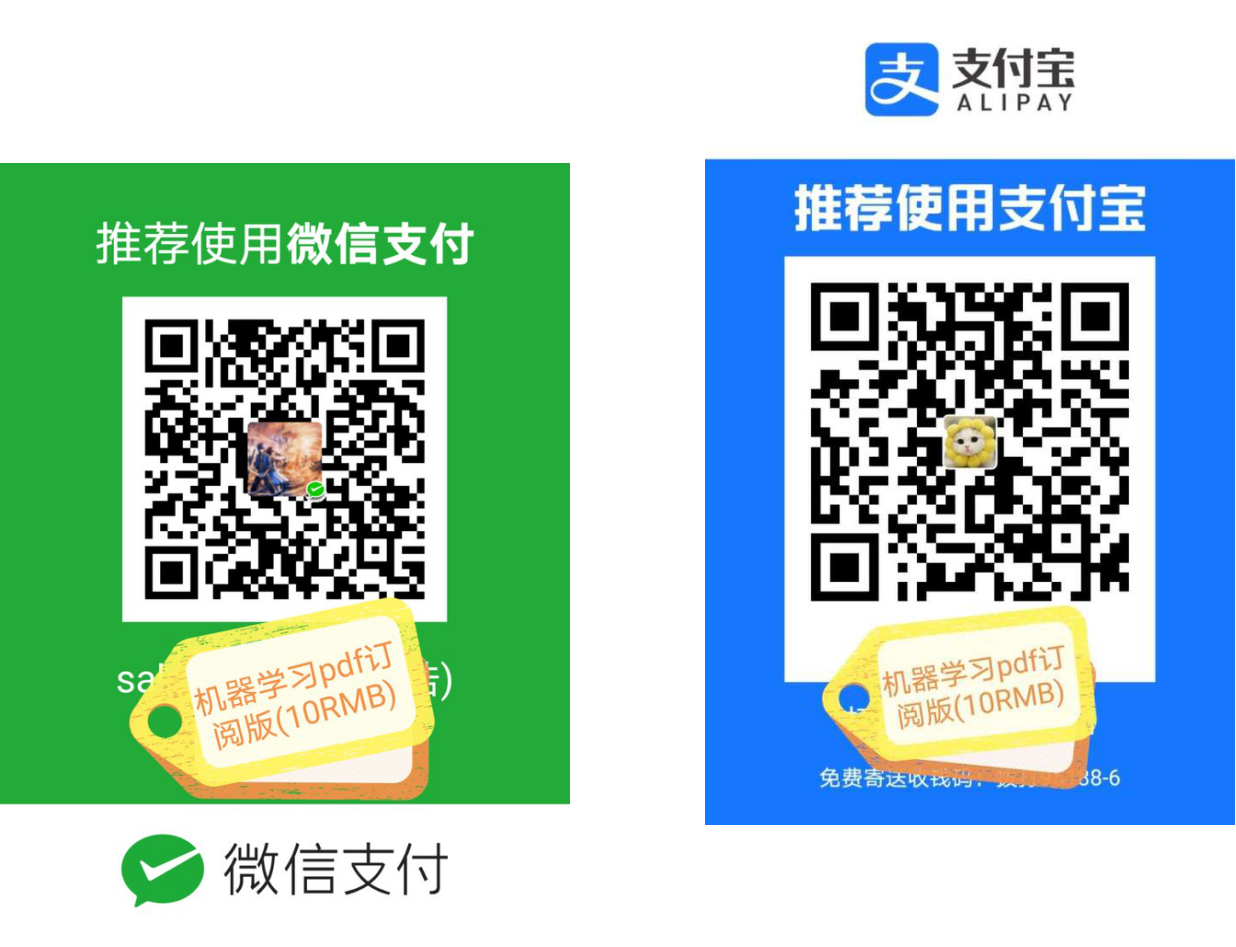
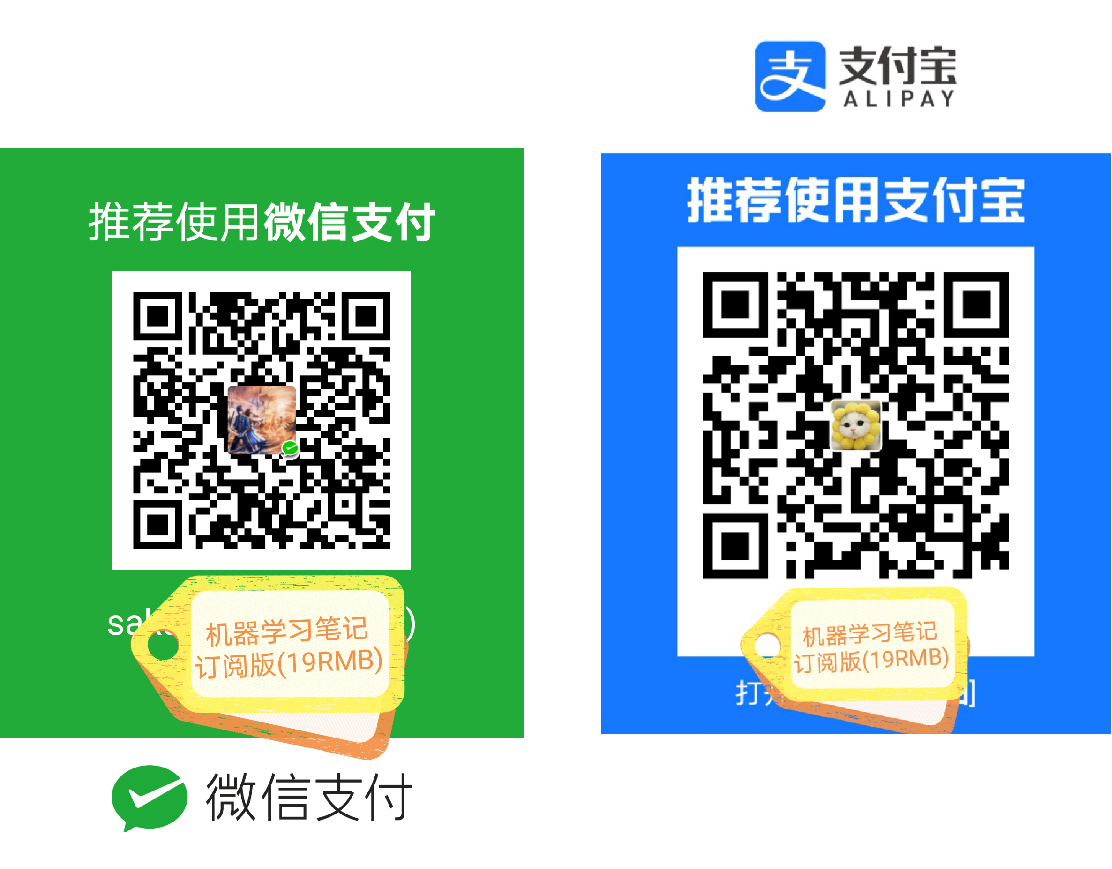
update

diff --git a/ML-notes-pdf/readme.md b/ML-notes-pdf/readme.md
@@ -3,7 +3,7 @@
 机器学习笔记PDF订阅版封面概览如下：
 <center><img src="https://cdn.jsdelivr.net/gh/Sakura-gh/ML-notes/img/ml-book.png" width="80%" /></center>
 
-扫描下方的微信或支付宝二维码，**打赏10元RMB并备注你的常用邮箱**，即可订阅**301页**的机器学习笔记PDF版本，订阅后24小时内会发送到邮箱\~订阅版本将长期进行修订和更新，并会在后续免费发送到你的邮箱中\~
+扫描下方的微信或支付宝二维码，**打赏19元RMB并备注你的常用邮箱**，即可订阅**301页**的机器学习笔记PDF版本，订阅后24小时内会发送到邮箱\~订阅版本将长期进行修订和更新，并会在后续免费发送到你的邮箱中\~
 
 <center><img src="https://cdn.jsdelivr.net/gh/Sakura-gh/ML-notes/img/ds.png" width="60%;"></center>
 
